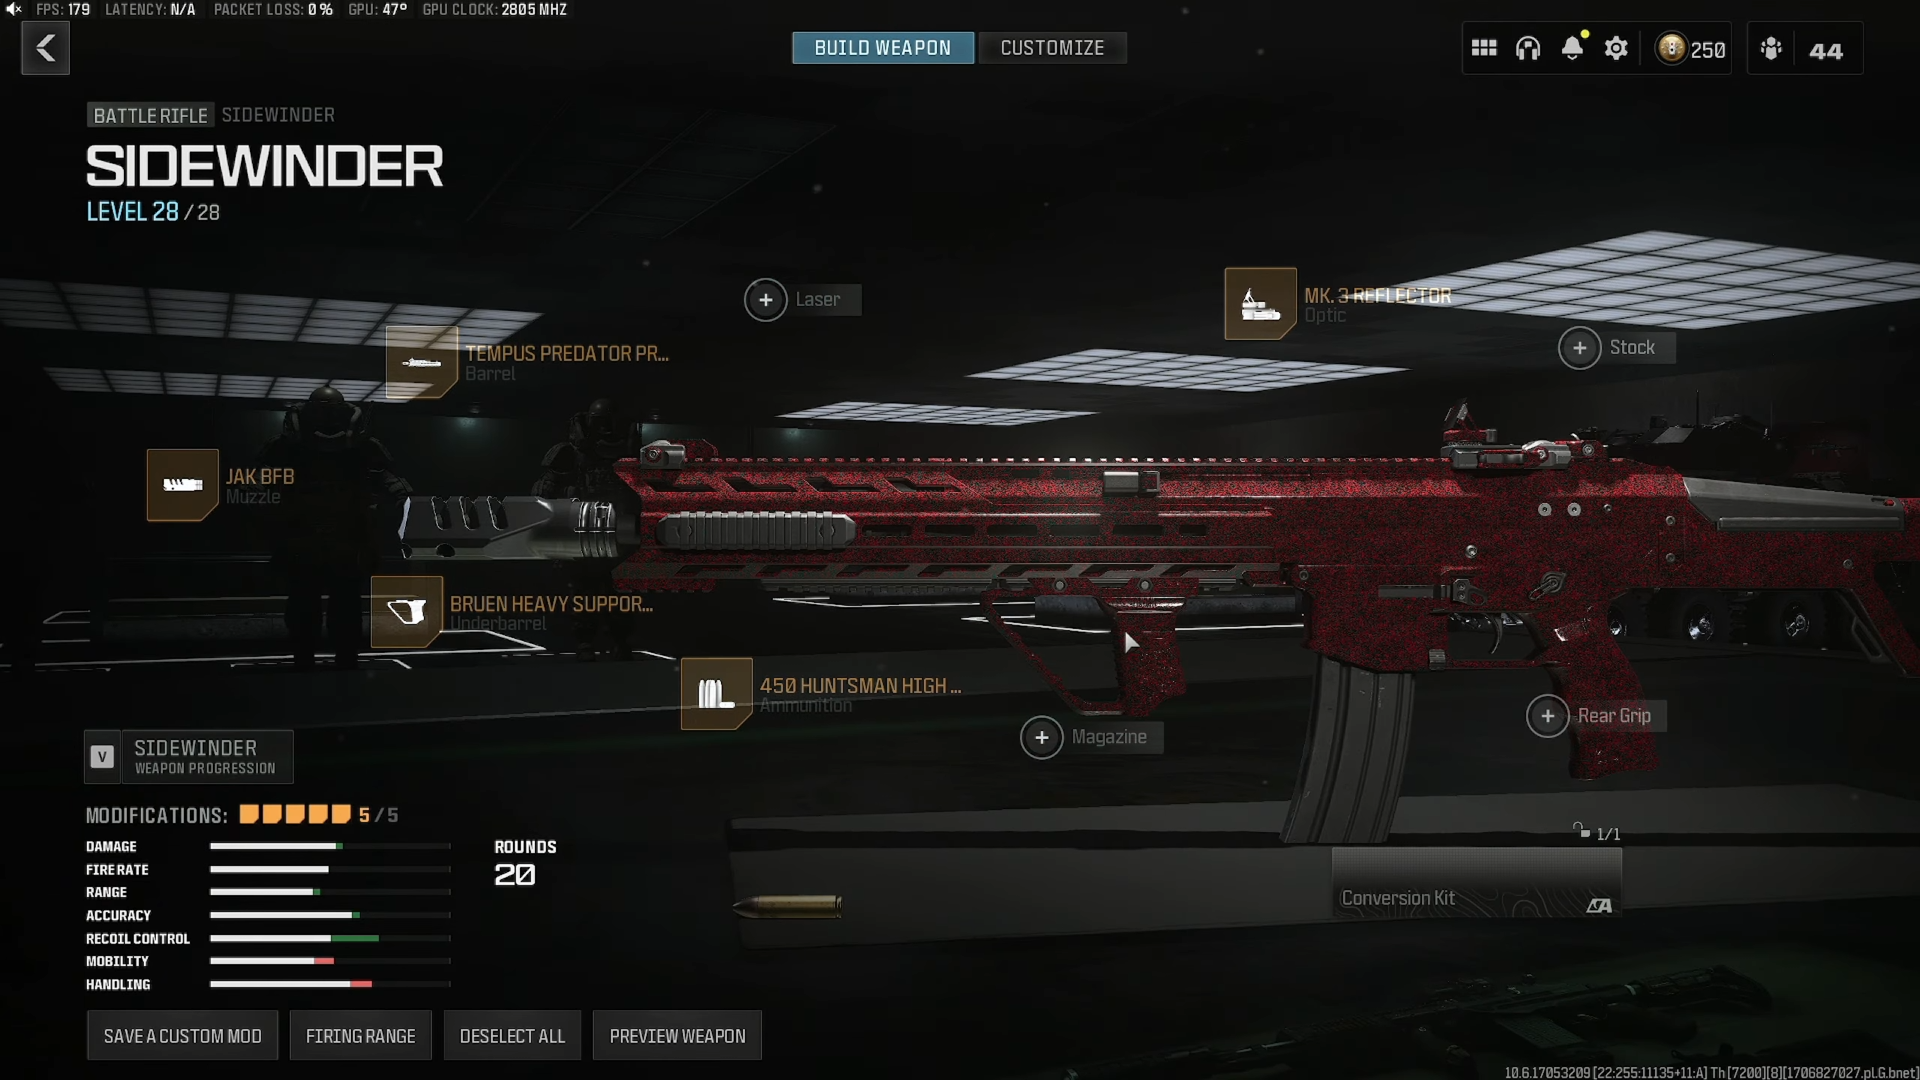
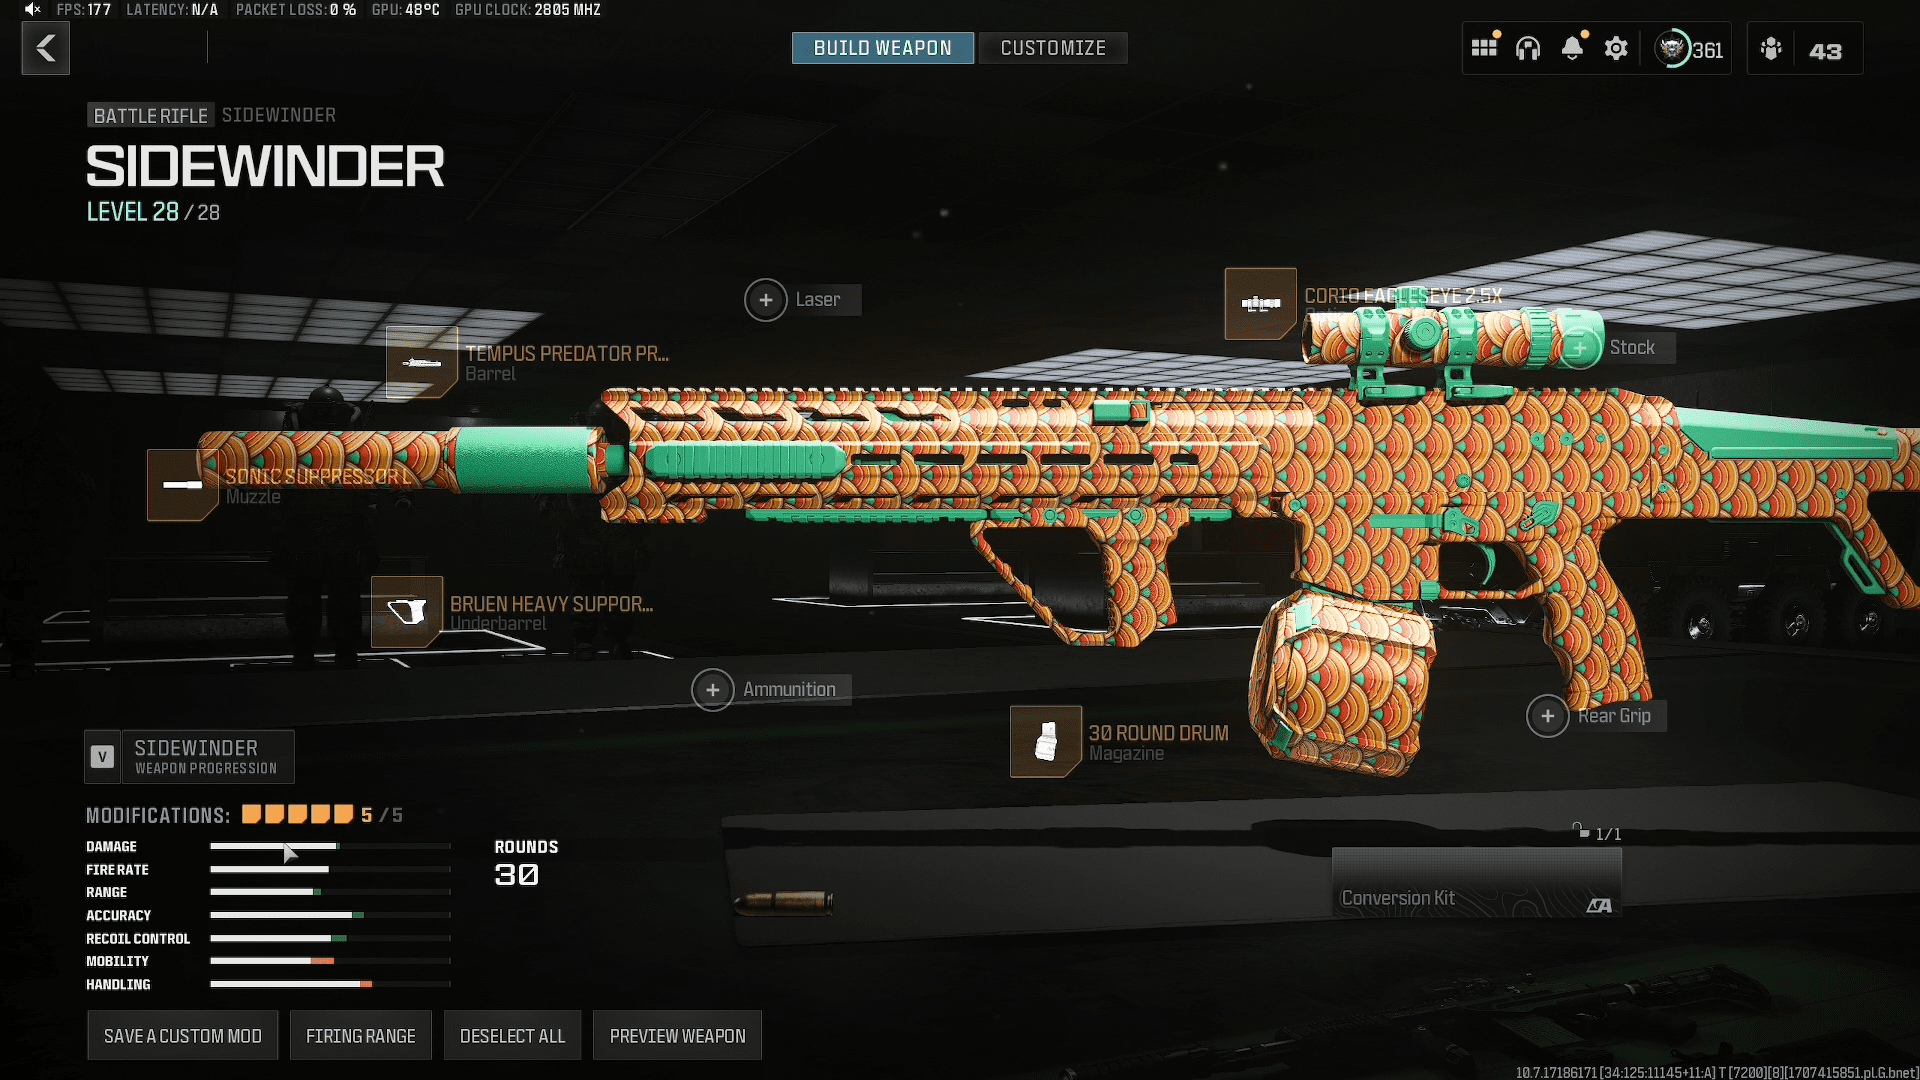
New loadouts

diff --git a/Index/Sidewinder.html b/Index/Sidewinder.html
@@ -33,7 +33,7 @@ permalink: /weapons-gallery/sidewinder
 <footer>
     <div style="display: flex; flex-direction: row;">
         <div style="color: #2e4177; border: none; display: flex; margin-left: 1%;">
-            <p>Date modified: Feb 9th 2024</p>
+            <p>Date modified: Feb 10th 2024</p>
         </div>
         <div style="color: #2e4177; border: none; margin-left: auto; margin-right: 1%;">
             <p >Author: CarrotBear</p>

diff --git a/Index/MTZ-762.html b/Index/MTZ-762.html
@@ -36,7 +36,7 @@ permalink: /weapons-gallery/mtz-762
 <footer>
     <div style="display: flex; flex-direction: row;">
         <div style="color: #2e4177; border: none; display: flex; margin-left: 1%;">
-            <p>Date modified: Feb 9th 2024</p>
+            <p>Date modified: Feb 10th 2024</p>
         </div>
         <div style="color: #2e4177; border: none; margin-left: auto; margin-right: 1%;">
             <p >Author: CarrotBear</p>

diff --git a/_site/weapons-gallery/mtz-762.html b/_site/weapons-gallery/mtz-762.html
@@ -33,7 +33,7 @@
 <footer>
     <div style="display: flex; flex-direction: row;">
         <div style="color: #2e4177; border: none; display: flex; margin-left: 1%;">
-            <p>Date modified: Feb 9th 2024</p>
+            <p>Date modified: Feb 10th 2024</p>
         </div>
         <div style="color: #2e4177; border: none; margin-left: auto; margin-right: 1%;">
             <p >Author: CarrotBear</p>

diff --git a/_site/weapons-gallery/sidewinder.html b/_site/weapons-gallery/sidewinder.html
@@ -30,7 +30,7 @@
 <footer>
     <div style="display: flex; flex-direction: row;">
         <div style="color: #2e4177; border: none; display: flex; margin-left: 1%;">
-            <p>Date modified: Feb 9th 2024</p>
+            <p>Date modified: Feb 10th 2024</p>
         </div>
         <div style="color: #2e4177; border: none; margin-left: auto; margin-right: 1%;">
             <p >Author: CarrotBear</p>
